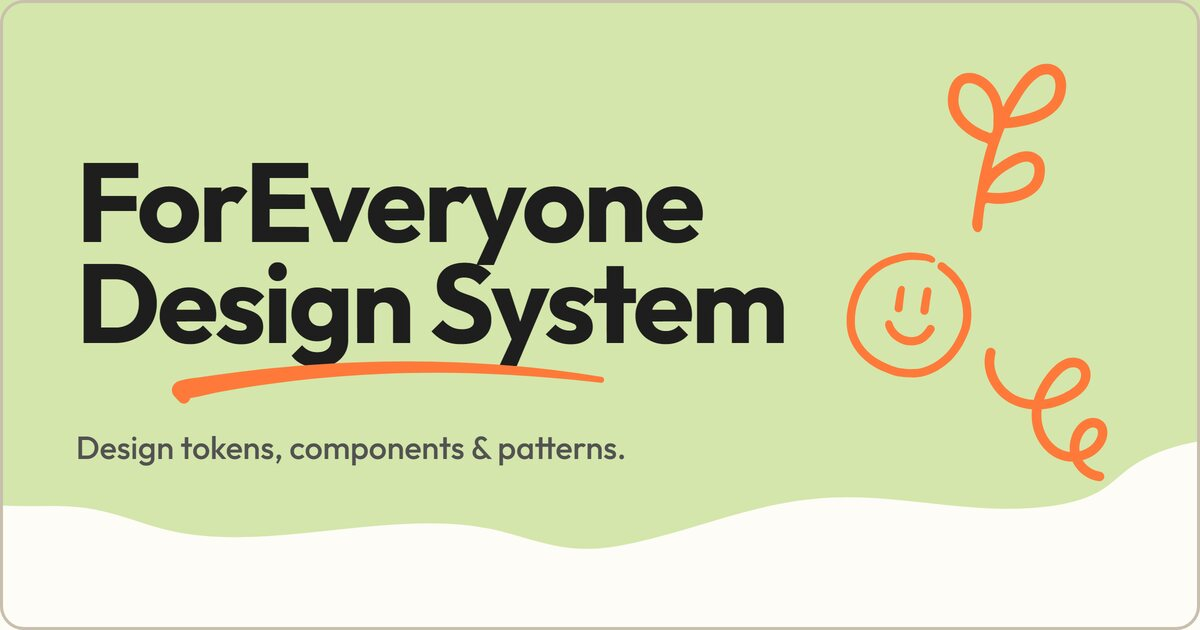
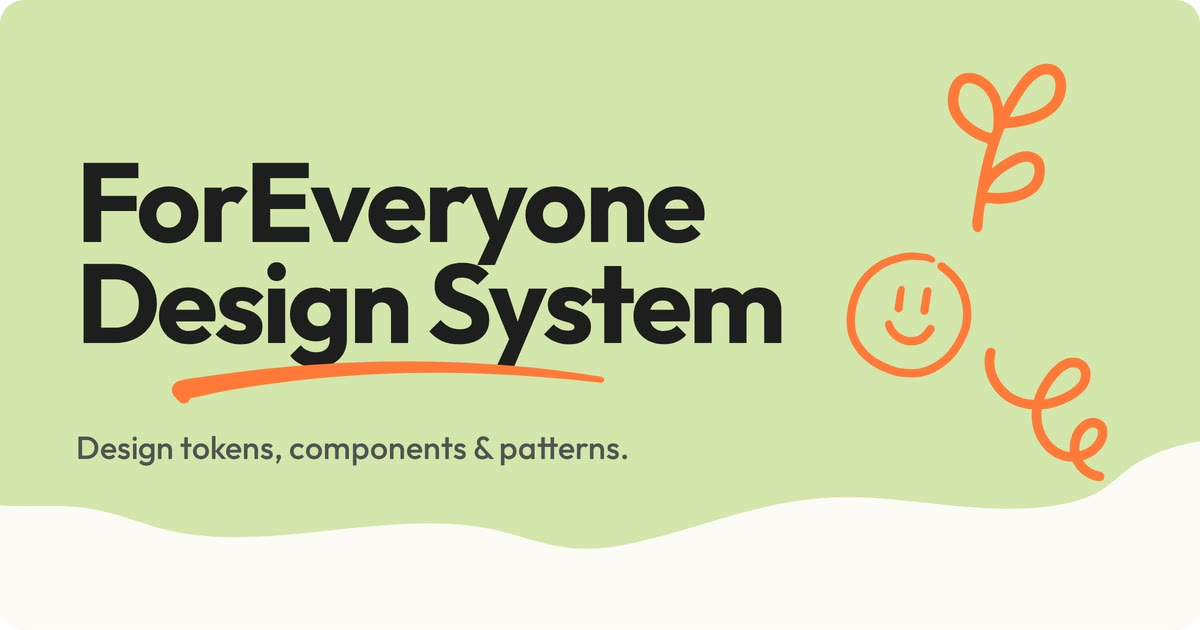
fix(prototype): give the README hero real rounded corners
Ship the hero as a PNG with transparent corners clipped to --radius-xl, and drop the baked-in grey stroke so the card silhouette reads rounded on GitHub.

diff --git a/prototype/public/images/ASSETS.md b/prototype/public/images/ASSETS.md
@@ -28,8 +28,8 @@ Card luminance is kept within a narrow band so the four cards read as one row; c
 
 These are rendered from the design system by Node scripts, not photographed.
 
-- `social-preview.jpg` Open Graph / Twitter / GitHub social card, `doodle-v1` composition: "ForEveryone Design System" over a Lime Green field, an orange doodle underline, sprout/smiley/swirl marks on the right, a Warm White wave band, at 1200x630 (1.91:1) per OG best practice (~58 KB). Light rounded outline (`--radius-xl`, warm-grey stroke) baked in so the edge stays visible in link previews. No wordmark lockup: the headline already carries the brand name. Also upload this file as the GitHub repo social preview (Settings → General → Social preview).
-- `readme-hero.jpg` README hero on GitHub, same composition at 1500x720 (~2.08:1, ~69 KB), including the same rounded outline so the Warm White wave does not dissolve into GitHub's white page. Regenerate both cards (design-system-driven HTML rendered with Chromium) via `node scripts/build-og-card.mjs [variant] [outDir]`, then convert the temp PNGs to JPG with ImageMagick (`-resize`, `-quality 84 -strip`). Variants: `doodle` (shipped composition), `blobs` (default flag value, layered brand blobs with a swatch row), `ramp` (OKLCH token scales), `type` (type-scale specimen). Colours are read from the generated `css/custom-properties.css`, so a token change flows into the cards; never hardcode hex in the generator.
+- `social-preview.jpg` Open Graph / Twitter / GitHub social card, `doodle-v1` composition: "ForEveryone Design System" over a Lime Green field, an orange doodle underline, sprout/smiley/swirl marks on the right, a Warm White wave band, at 1200x630 (1.91:1) per OG best practice (~58 KB). Content clipped to `--radius-xl`, then flattened onto white and encoded as JPG (OG crawlers often mishandle alpha). No wordmark lockup: the headline already carries the brand name. Also upload this file as the GitHub repo social preview (Settings → General → Social preview).
+- `readme-hero.png` README hero on GitHub, same composition at 1500x720 (~2.08:1), clipped to `--radius-xl` with real transparent corners so the bitmap silhouette is rounded (not a white-filled rectangle). Regenerate both cards via `node scripts/build-og-card.mjs [variant] [outDir]` (Chromium screenshot with `omitBackground`), then resize: keep alpha for the README PNG; flatten to white + JPG for social. Variants: `doodle` (shipped composition), `blobs` (default flag value, layered brand blobs with a swatch row), `ramp` (OKLCH token scales), `type` (type-scale specimen). Colours are read from the generated `css/custom-properties.css`, so a token change flows into the cards; never hardcode hex in the generator.
 
 - `guide-og-doodle.jpg` Open Graph / social card for the **Belonging Guide** funnel pages on foreveryone.berlin (`/guide`, `/guide-confirmed`), at 1200x630 (~36 KB). Lime Green field, "Belonging in Berlin" over an orange doodle underline, sprout/smiley/swirl marks on the right, Warm White wave band with the horizontal lockup. This is a **website** card, not a design-system card: it is tracked here so the funnel pages have a reviewed source, but it does not replace `social-preview.jpg`. Regenerate with `node prototype/scripts/build-guide-og.mjs [doodle|photo|blobs|all] [outDir]`; output defaults to the gitignored `.artifacts/images/`. Copy deck lives in the `COPY` object at the top of that script. Renders in Outfit, the documented Filson Pro stand-in.
 
@@ -37,11 +37,11 @@ These are rendered from the design system by Node scripts, not photographed.
 
 | Study | Files | What changes vs `doodle` |
 |-------|-------|--------------------------|
-| `doodle-v1` steady **(shipped)** | `social-preview-doodle-v1.jpg`, `readme-hero-doodle-v1.jpg` — byte-identical to `social-preview.jpg` / `readme-hero.jpg` | Original type size; marks about a third larger; stack lifted clear of the wave band. |
+| `doodle-v1` steady **(shipped)** | `social-preview-doodle-v1.jpg`, `readme-hero-doodle-v1.png` — byte-identical to `social-preview.jpg` / `readme-hero.png` | Original type size; marks about a third larger; stack lifted clear of the wave band. |
 | `doodle-v2` cluster | `social-preview-doodle-v2.jpg`, `readme-hero-doodle-v2.jpg` | Headline at 0.92x; marks ~1.6x and grouped tighter into a right-hand column. |
 | `doodle-v3` airy | `social-preview-doodle-v3.jpg`, `readme-hero-doodle-v3.jpg` | Headline at 0.88x and top-anchored; largest marks, spread as a diagonal; subline drops toward the wave band. |
 
-Render a study with `node scripts/build-og-card.mjs doodle-v1 <outDir>` (then the same ImageMagick step as above). To adopt one, copy its two JPGs over `social-preview.jpg` / `readme-hero.jpg`, which are what `app/layout.tsx` (`openGraph` / `twitter`) and the root `README.md` reference.
+Render a study with `node scripts/build-og-card.mjs doodle-v1 <outDir>` (then resize: PNG+alpha for README, white-flatten JPG for social). To adopt one, copy over `social-preview.jpg` / `readme-hero.png`, which are what `app/layout.tsx` (`openGraph` / `twitter`) and the root `README.md` reference.
 
 **Logo system** (`logo/`):
 - `logo/foreveryone-horizontal.png` — primary horizontal lockup; the official `foreveryone-logo.png` with transparent margins trimmed. Default everywhere.

diff --git a/README.md b/README.md
@@ -1,4 +1,4 @@
-![ForEveryone Design System card: a bold "ForEveryone Design System" headline on a lime-green ground, underlined with an orange hand-drawn stroke, with sprout, smiley, and swirl doodles on the right and a warm-white wave along the bottom.](prototype/public/images/readme-hero.jpg)
+![ForEveryone Design System card: a bold "ForEveryone Design System" headline on a lime-green ground, underlined with an orange hand-drawn stroke, with sprout, smiley, and swirl doodles on the right and a warm-white wave along the bottom.](prototype/public/images/readme-hero.png)
 
 # ForEveryone Design System
 
